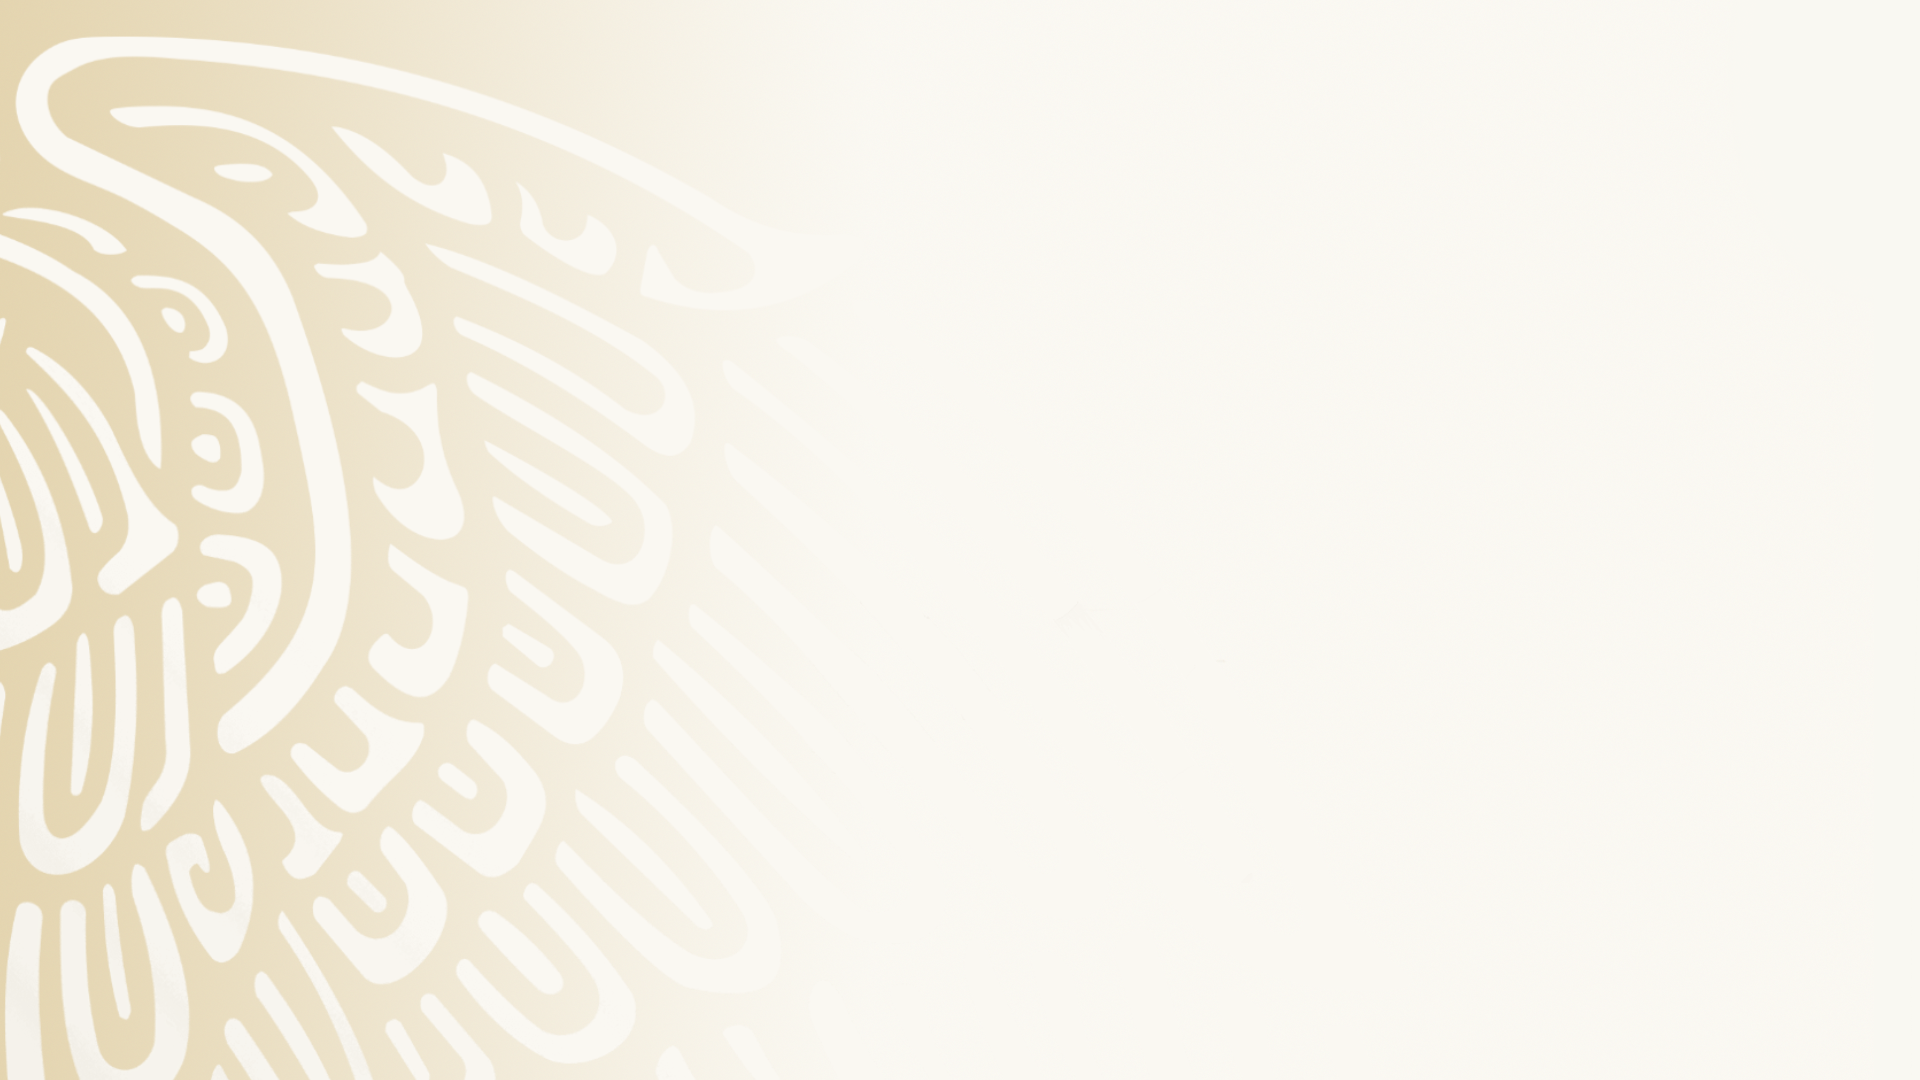
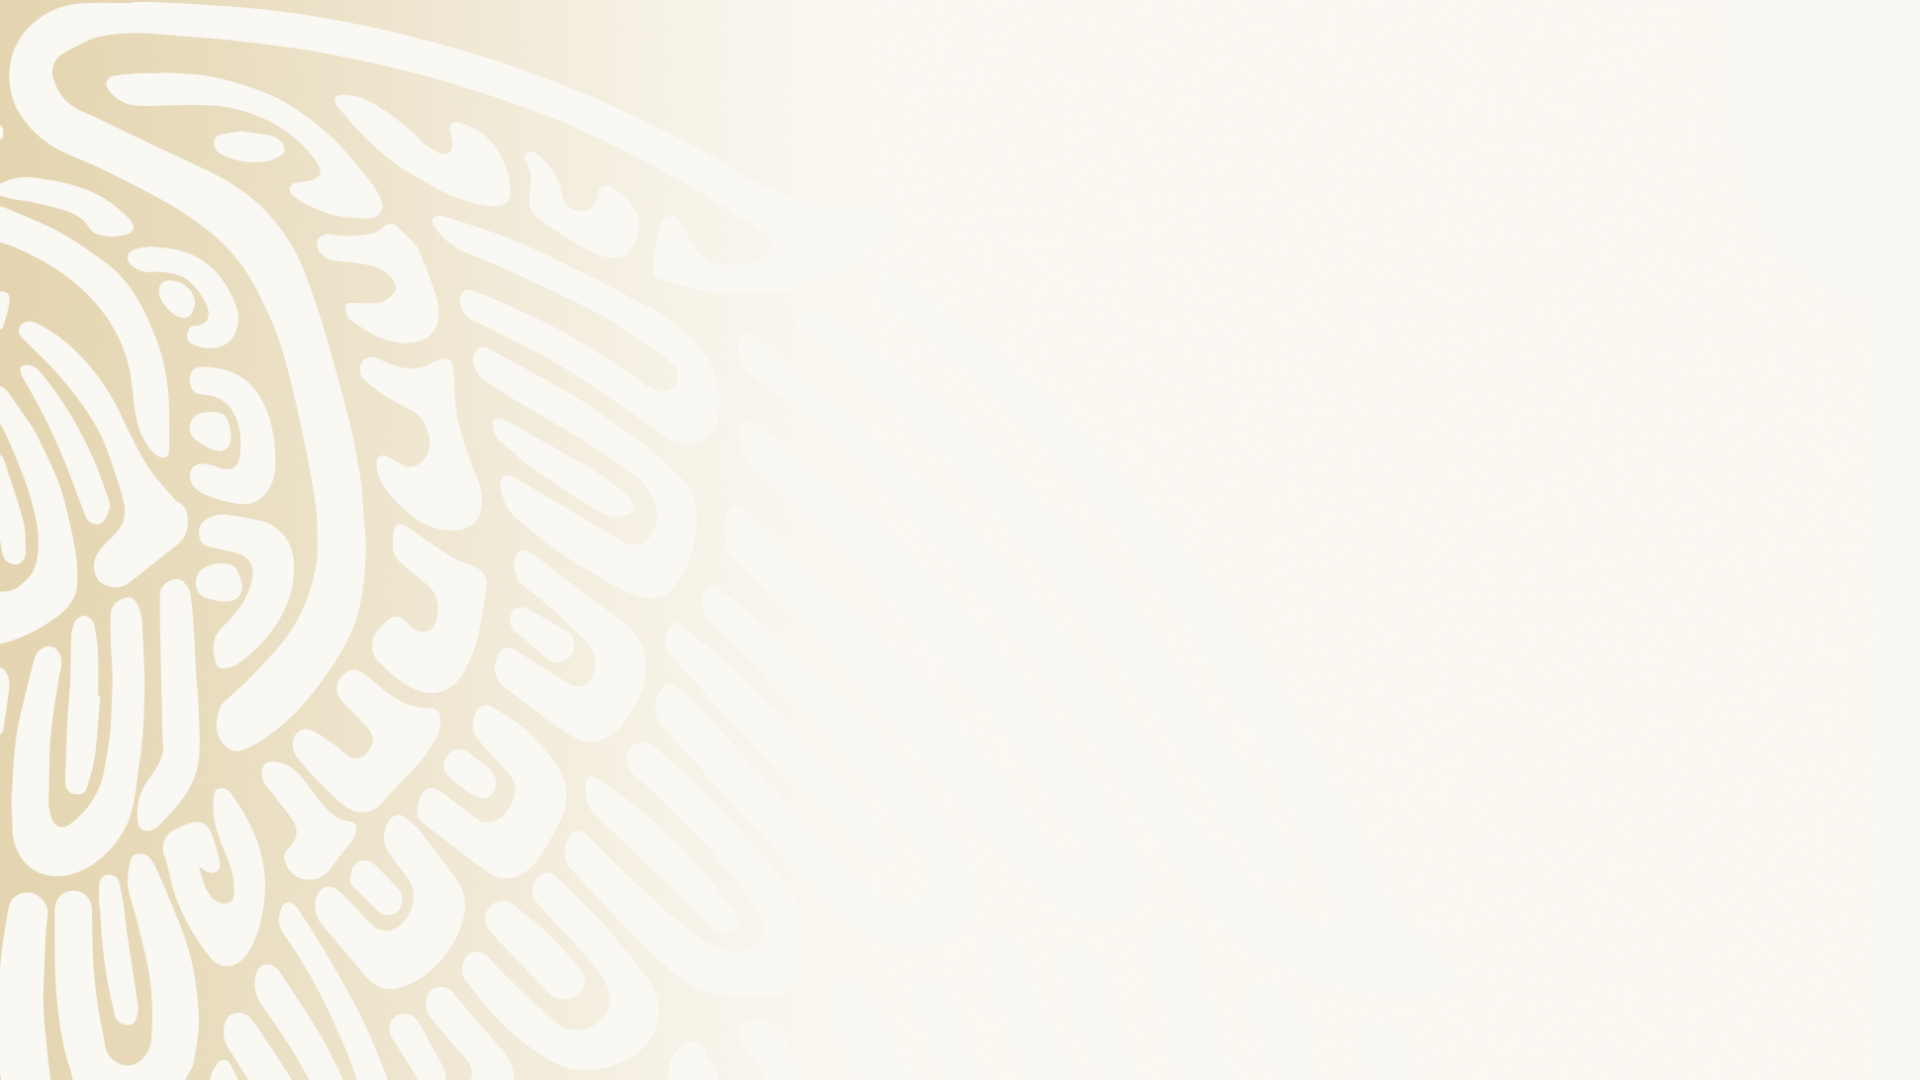
Agregando estilos al login

Changed region(s): [[0.0, 0.0, 0.2812, 1.0]]

diff --git a/frontend/src/view/layouts/Layout.vue b/frontend/src/view/layouts/Layout.vue
@@ -51,7 +51,7 @@ q-layout(
           content-class='bg-accent'
         ) MENU
     q-toolbar.bg-secondary(
-      style="min-height: 2px;"
+      style="min-height: 5px;"
     )
   q-drawer(
     v-model='right'
@@ -59,9 +59,7 @@ q-layout(
     side='right'
     elevated=''
   )
-    .full-height.bg-primary(
-      :class='$q.dark.isActive ? "drawer_dark" : "drawer_normal"'
-    )
+    .full-height.bg-aside-right.drawer_normal
       div.text-white(
         style='height: calc(100% - 117px);padding:10px;'
       )
@@ -115,12 +113,7 @@ q-layout(
         ) HERRAMIENTA DE CALIDAD DE DATOS | {{new Date().getFullYear()}}
 </template>
 
-<style lang='sass'>
-  .bg-footer
-    background-image: url(~assets/img/dashboard/footer.svg)
-  .q-drawer--right
-    border-left: 3px solid #bc955c
-</style>
+<style src='./Layout.sass' lang='sass'></style>
 
 <script>
 import { mapGetters } from 'vuex'

diff --git a/frontend/src/view/auth/Login/Login.sass b/frontend/src/view/auth/Login/Login.sass
@@ -1,4 +1,8 @@
+.bg-login
+  background-color: #f9f8f2
+
 .bg-image
-  background-image: url(~assets/img/auth/gradient.png)
+  background-image: url(~assets/img/auth/bg.png)
   background-position: left bottom
-  background-size: cover
+  background-size: contain
+  background-repeat: no-repeat

diff --git a/frontend/src/view/layouts/Layout.sass b/frontend/src/view/layouts/Layout.sass
@@ -1,0 +1,8 @@
+.bg-aside-right
+  background-image: url(~assets/img/dashboard/aside.png)
+  background-position: left bottom
+  background-size: cover
+.bg-footer
+  background-image: url(~assets/img/dashboard/footer.svg)
+.q-drawer--right
+  border-left: 5px solid #bc955c

diff --git a/frontend/src/view/auth/Login/Login.vue b/frontend/src/view/auth/Login/Login.vue
@@ -1,6 +1,6 @@
 <template lang='pug'>
 q-layout
-  q-page-container
+  q-page-container.bg-login
     q-page.bg-image.flex.flex-center
       q-card.q-card-bordered.shadow-12.q-py-lg(
         v-bind:style='$q.screen.lt.sm ? {"width": "80%"} : {"width":"30%"}'
